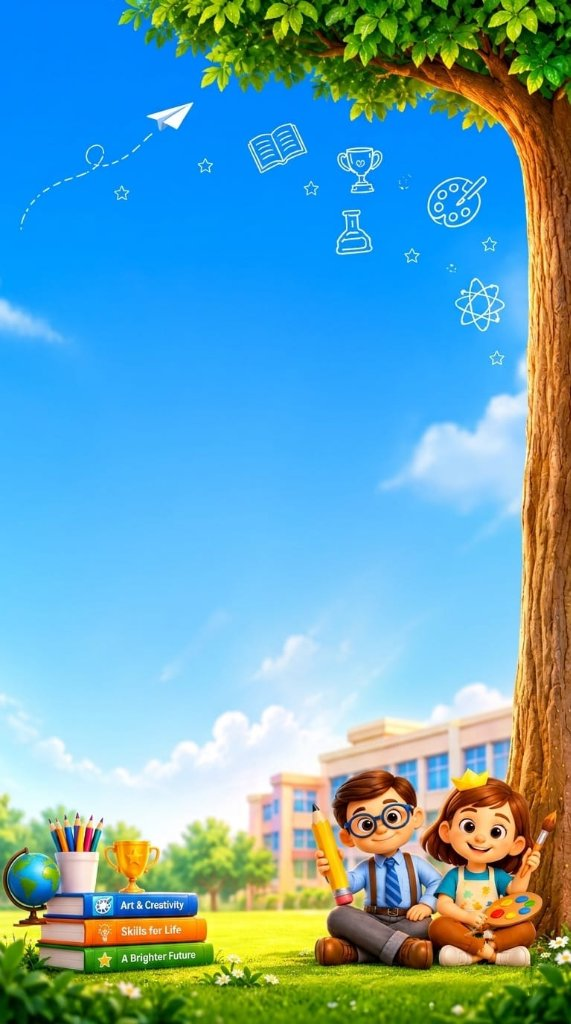
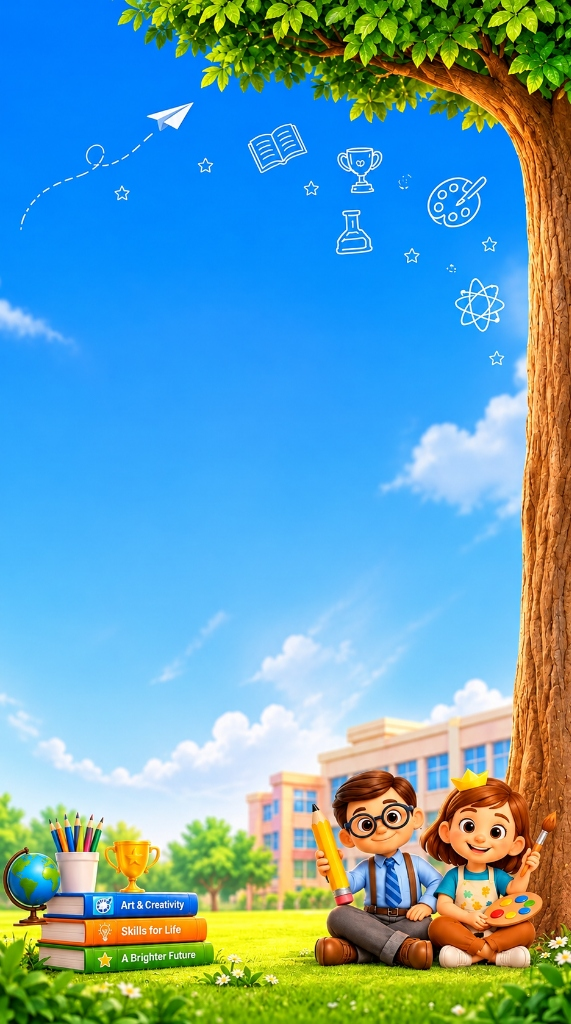
feat(mobile): use high-res illustration as hero background in mobile view

diff --git a/style.css b/style.css
@@ -3800,7 +3800,7 @@ marquee,
     align-items: center !important;
     justify-content: center !important;
     background-color: #5DB5EE !important;
-    background-image: url('assets/mobile_hero_kids.jpg') !important;
+    background-image: url('assets/mobile_hero_kids.jpg?v=2') !important;
     background-position: center top !important;
     background-size: cover !important;
     background-repeat: no-repeat !important;

diff --git a/index.html b/index.html
@@ -29,7 +29,7 @@
   <!-- Swiper 11 CSS (for 3D Creative Carousel) -->
   <link rel="stylesheet" href="https://cdn.jsdelivr.net/npm/swiper@11/swiper-bundle.min.css">
 
-  <link rel="stylesheet" href="style.css?v=9.4">
+  <link rel="stylesheet" href="style.css?v=9.5">
 
 
 
